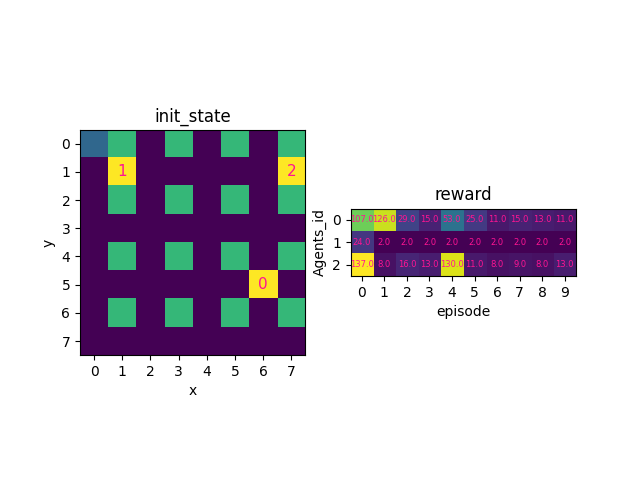
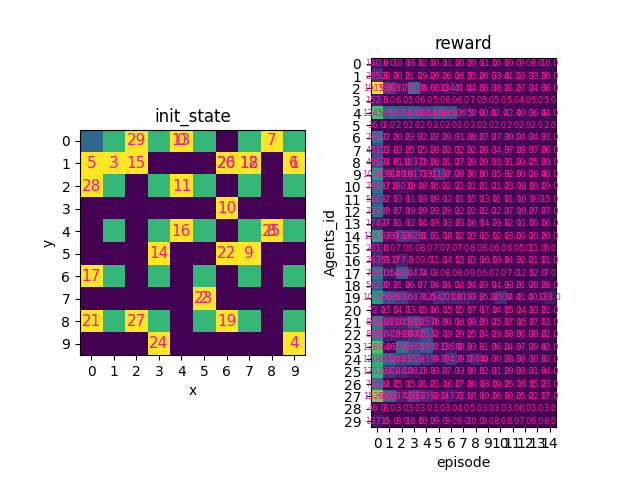
12/20 17:15

diff --git a/multi.py b/multi.py
@@ -9,10 +9,10 @@ from qlearning_agent import Summon
 from main import Plotting
 
 # 定数
-NB_EPISODE = 10   # エピソード数
-X_MAX = 8
-Y_MAX = 8
-POPULATION = 3
+NB_EPISODE = 15   # エピソード数
+X_MAX = 10
+Y_MAX = 10
+POPULATION = 30
 start = time.time()
 
 if __name__ == '__main__':
